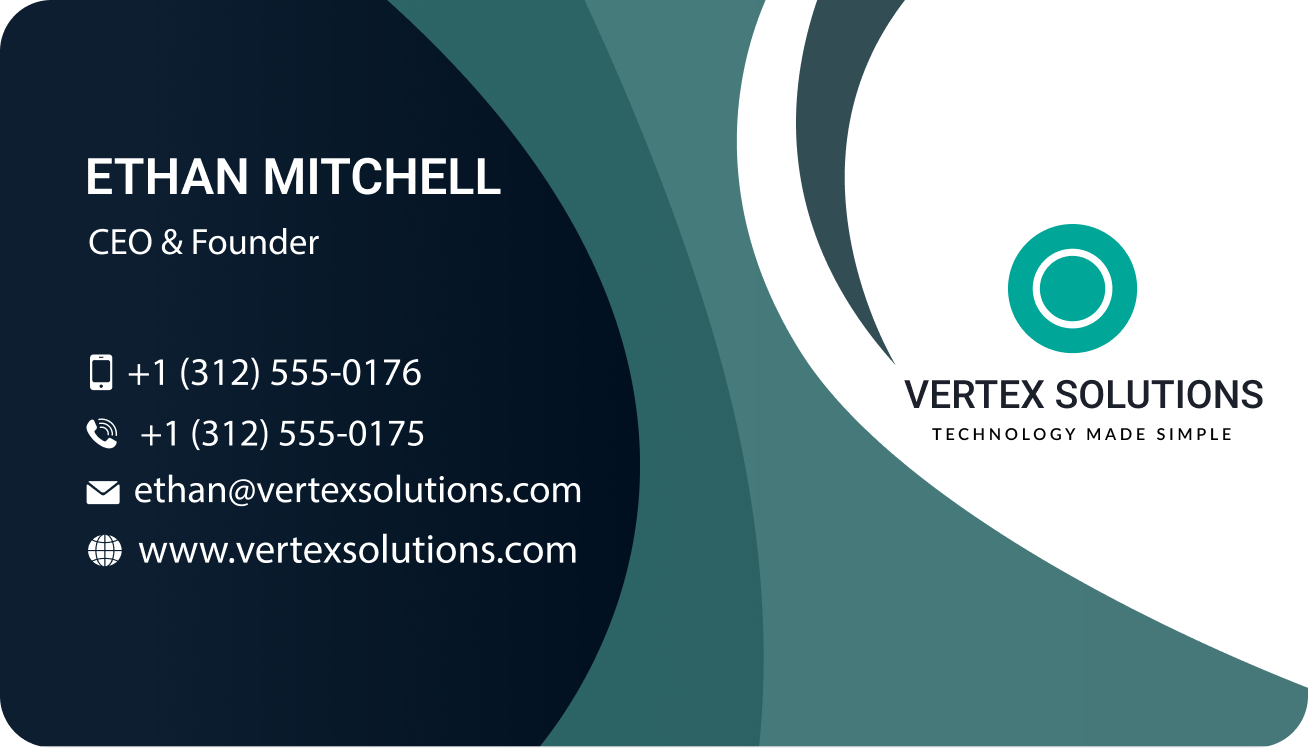
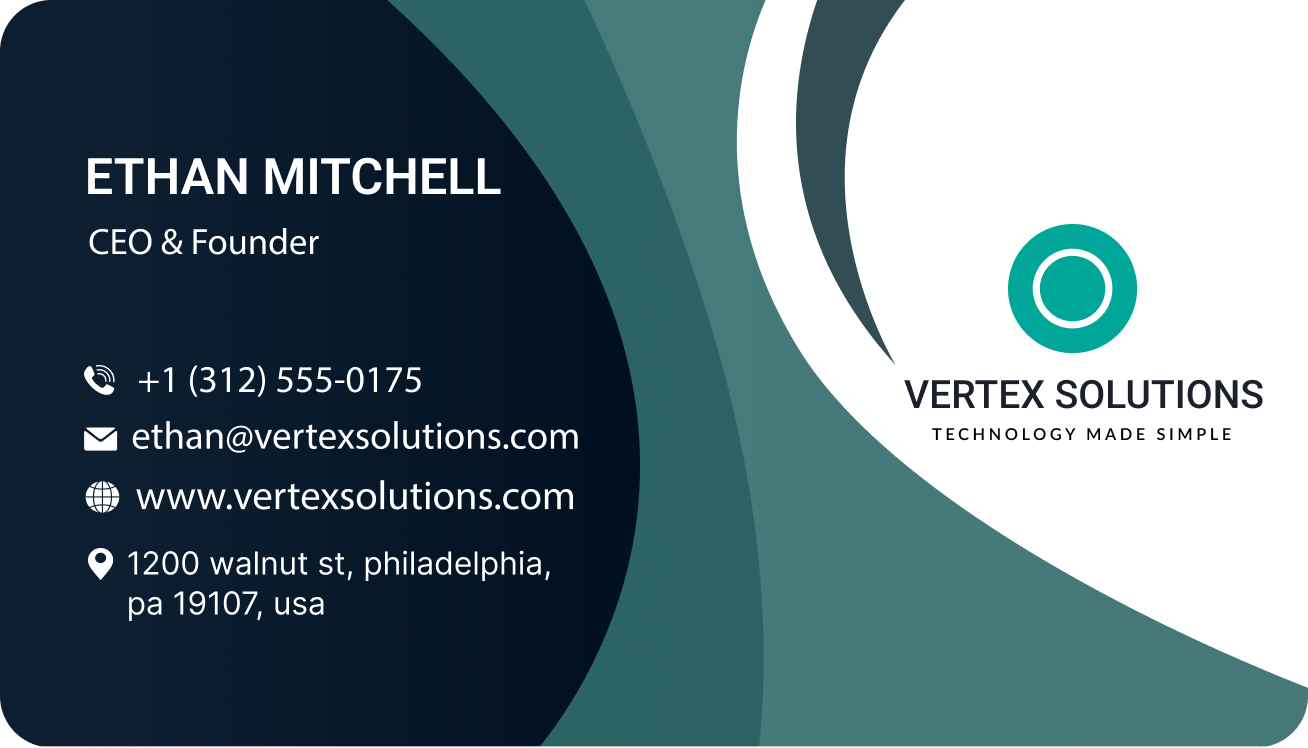
fix horizontal template 7

Changed region(s): [[0.0612, 0.6457, 0.4587, 0.8302], [0.0612, 0.5535, 0.4587, 0.615], [0.0612, 0.4612, 0.3364, 0.5227]]

diff --git a/lib/features/template/domain/visiting_card_position_config.dart b/lib/features/template/domain/visiting_card_position_config.dart
@@ -1392,28 +1392,28 @@ back: VisitingCardSidePositions(
       ),
       phone: VisitingCardFieldPosition(
         left: 0.12,
-        top: 0.463,
+        top: 0.48,
         width: 0.38,
         fontSize: 8,
         color: Color(0xFFFFFFFF),
       ),
       email: VisitingCardFieldPosition(
         left: 0.12,
-        top: 0.55,
+        top: 0.56,
         width: 0.38,
         fontSize: 8,
         color: Color(0xFFFFFFFF),
       ),
       website: VisitingCardFieldPosition(
         left: 0.12,
-        top: 0.63,
+        top: 0.64,
         width: 0.38,
         fontSize: 8,
         color: Color(0xFFFFFFFF),
       ),
       address: VisitingCardFieldPosition(
         left: 0.12,
-        top: 0.705,
+        top: 0.72,
         width: 0.38,
         fontSize: 8,
         color: Color(0xFFFFFFFF),
